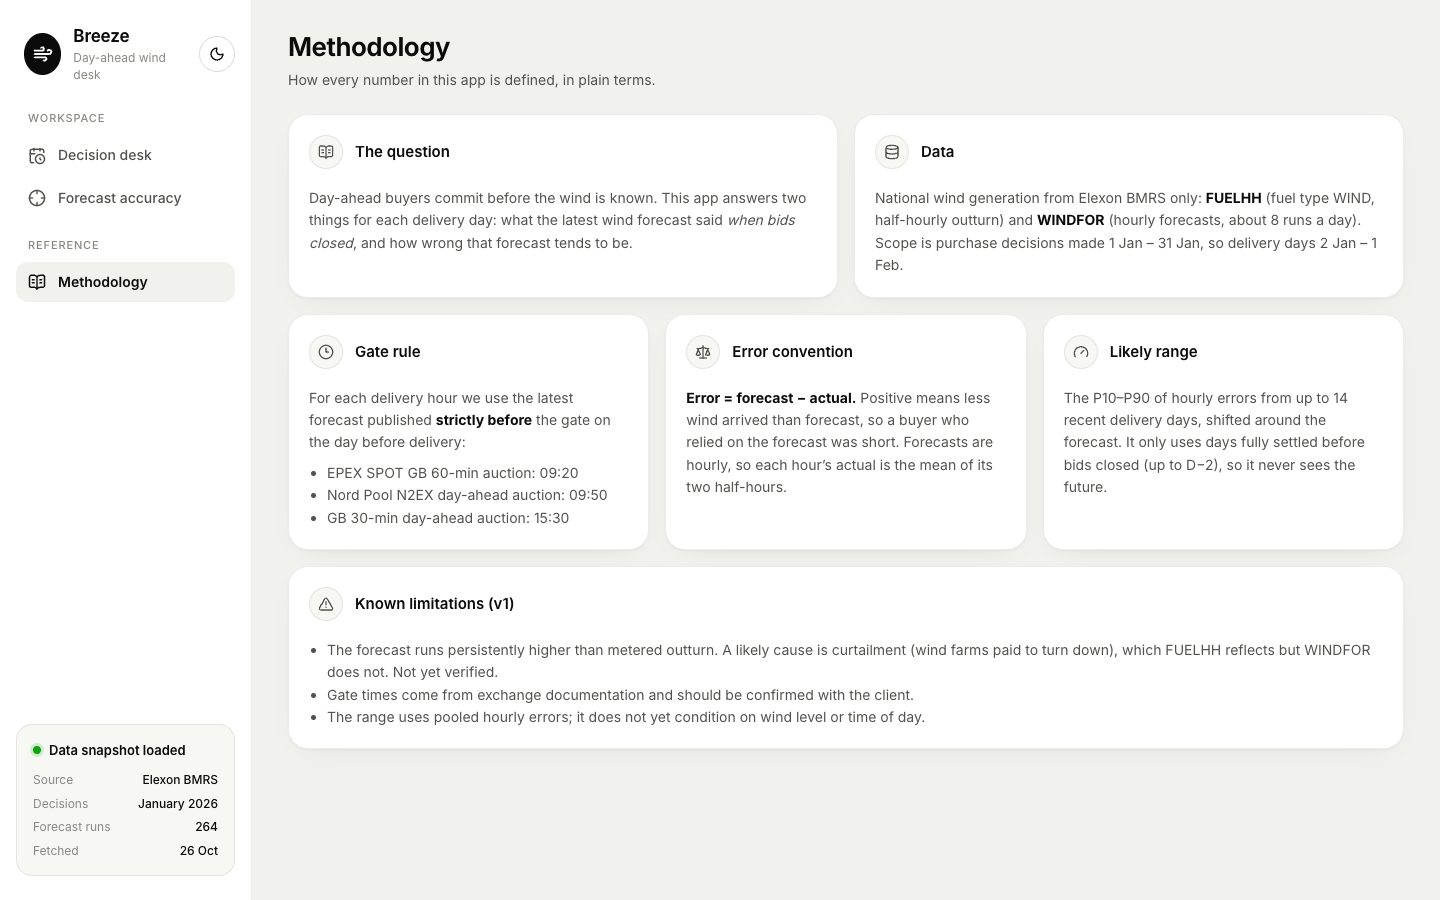
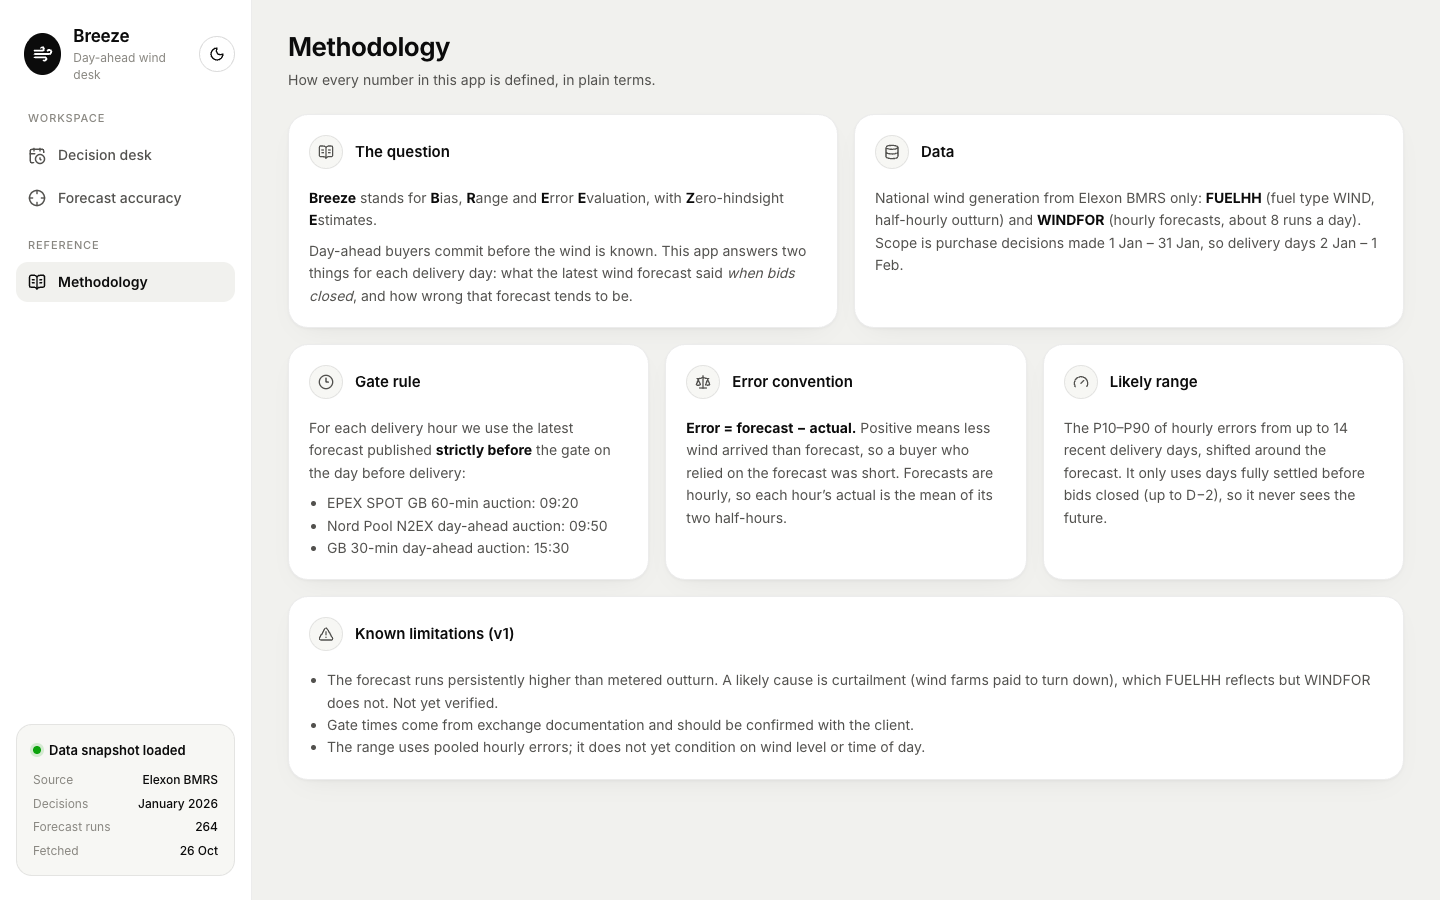
Show what Breeze stands for; add live and repo links; update AI-use note

Changed region(s): [[0.2188, 0.2178, 0.9375, 0.84], [0.625, 0.3111, 0.9375, 0.56], [0.75, 0.5911, 0.9375, 0.6533]]

diff --git a/frontend/src/views/MethodologyView.tsx b/frontend/src/views/MethodologyView.tsx
@@ -12,6 +12,11 @@ export function MethodologyView({ meta }: { meta: Meta }) {
         <Card className="span-6" title="The question" icon={<BookOpenText size={16} />}>
           <div className="prose">
             <p>
+              <strong>Breeze</strong> stands for <strong>B</strong>ias, <strong>R</strong>ange and{' '}
+              <strong>E</strong>rror <strong>E</strong>valuation, with <strong>Z</strong>ero-hindsight{' '}
+              <strong>E</strong>stimates.
+            </p>
+            <p>
               Day-ahead buyers commit before the wind is known. This app answers two things for each delivery day:
               what the latest wind forecast said <em>when bids closed</em>, and how wrong that forecast tends to be.
             </p>

diff --git a/frontend/src/components/Sidebar.tsx b/frontend/src/components/Sidebar.tsx
@@ -26,7 +26,7 @@ export function Sidebar({ view, onNavigate, meta }: SidebarProps) {
   return (
     <aside className="sidebar">
       <div className="sidebar__top">
-        <div className="brand">
+        <div className="brand" title="Bias, Range and Error Evaluation, with Zero-hindsight Estimates">
           <span className="brand__mark" aria-hidden>
             <Wind size={20} strokeWidth={2.25} />
           </span>

diff --git a/README.md b/README.md
@@ -1,5 +1,7 @@
 # Breeze: day-ahead wind forecast desk
 
+**B**ias, **R**ange and **E**rror **E**valuation, with **Z**ero-hindsight **E**stimates.
+
 A web app for a UK utility's day-ahead power buying team. For every delivery day it shows **the national wind forecast that was available when the auction gate closed**, and **how accurate that forecast is**. The team can then size purchases with the error in mind.
 
 Data: Elexon BMRS only. `FUELHH` (fuel type WIND) provides actuals and `WINDFOR` provides forecasts. Scope is purchase decisions made in January 2026.
@@ -59,16 +61,17 @@ heroku.yml  tells Heroku's container stack to build the Dockerfile
 
 Complete for the brief's scope: purchase decisions made in January 2026. It deploys to Heroku as a container (`heroku.yml` → root `Dockerfile`). The design choices are written up in the backend and frontend READMEs.
 
+- **Live app:** https://breeze-wind-desk-36fe0c280db6.herokuapp.com/
+- **Repository:** https://github.com/abhinav-usc/dhbcuiq2eh
+
 **Headline (N2EX gate, January 2026):** the forecast ran **+1.73 GW high** on average, leaving a buyer **1,392 GWh short** over the month. A bias adjustment that uses only data available at the gate cuts the average error by 19% and the shortfall to 655 GWh. The likely range held 75% of hours, against an 80% target.
 
 ## Use of AI tools
 
-This project was built with **Claude Code** (Anthropic's AI coding assistant), working under the author's direction. Claude Code was used for:
+This project was built with assistance from **Claude Code** (Anthropic's AI coding assistant) during development. In particular, Claude Code:
 
-- Exploring the Elexon API and analysing the data.
-- Researching day-ahead gate times.
-- Writing the backend, frontend, tests, Dockerfile and these READMEs.
-- Checking the UI via headless-browser screenshots.
-- Drafting the client pitch deck.
+- Set up the infrastructure: project scaffolding, Docker and the Heroku deployment.
+- Assisted with implementing the backend and frontend.
+- Gathered research material and information, such as how the Elexon API behaves and when day-ahead auction gates close.
 
-The author set the scope and made the design decisions, which are written up in the backend and frontend READMEs. The author reviewed the results.
+The author directed the work, led the analysis and made the design decisions, and reviewed and edited the code.
